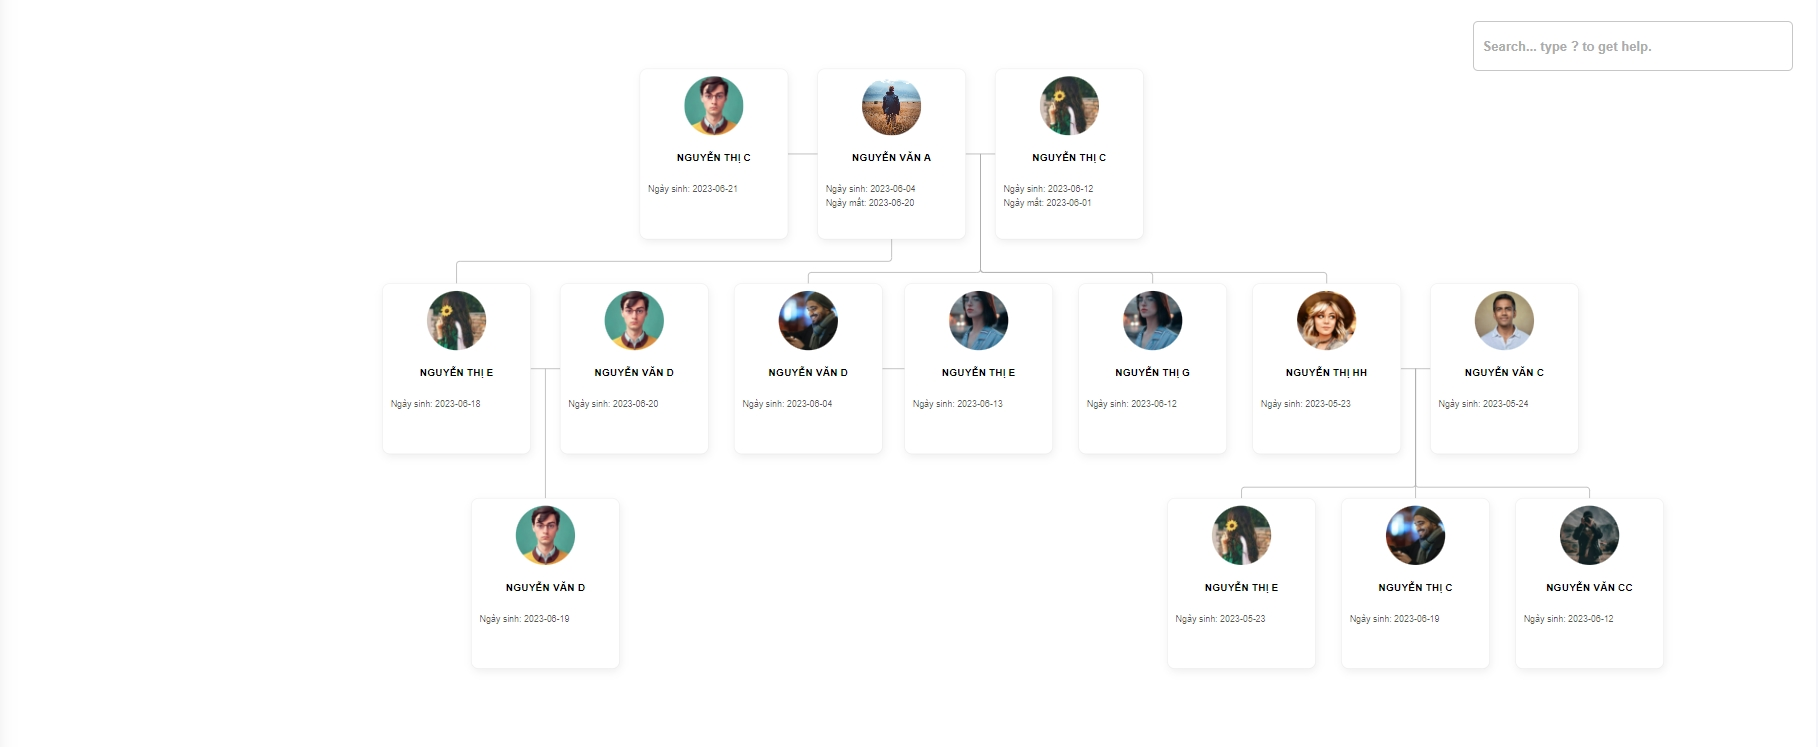
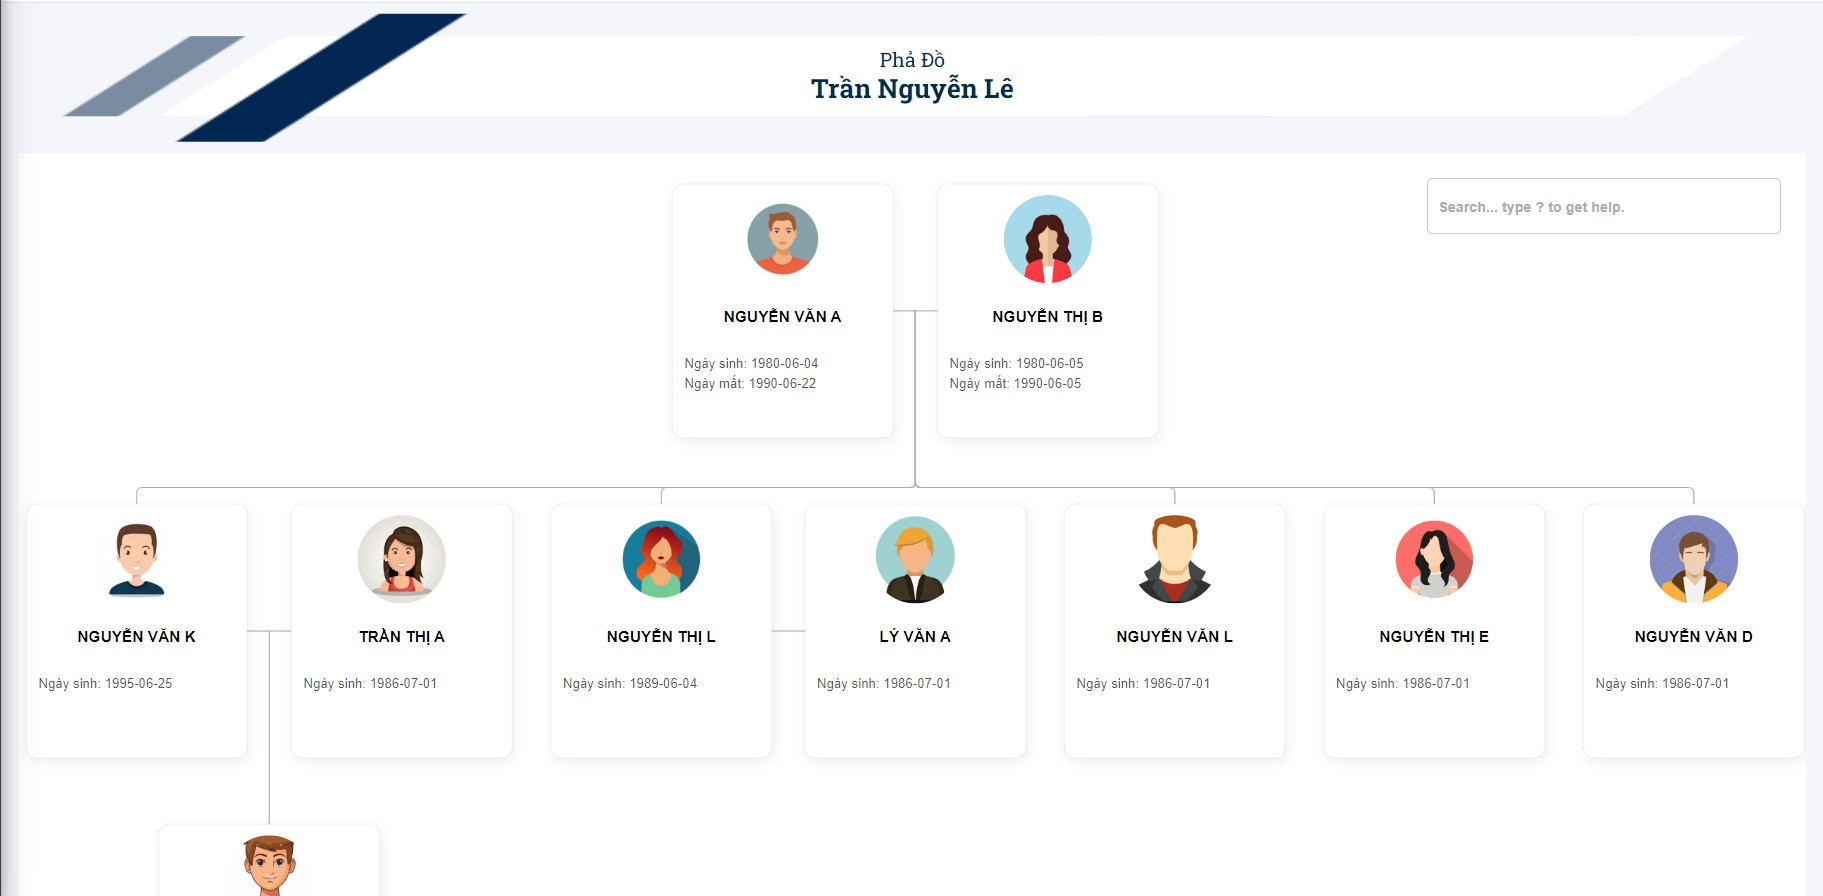
Default template

diff --git a/resources/views/global/genealogy.blade.php b/resources/views/global/genealogy.blade.php
@@ -144,7 +144,59 @@
         @include('global.content_head', [
             'title' => 'Cây gia phả',
         ])
-        @if ($template == 2)
+        @if ($template == 1)
+            <link rel="preconnect" href="https://fonts.googleapis.com">
+            <link rel="preconnect" href="https://fonts.gstatic.com" crossorigin>
+            <link href="https://fonts.googleapis.com/css2?family=Roboto+Slab:wght@100;200;300;400;500;600;700;800;900&display=swap" rel="stylesheet">
+            <style>
+                .content-header {
+                    display: none;
+                }
+                .wrap-main-title {
+                    position: relative;
+                    height: 120px;
+                }
+                .wrap-main-title img {
+                    width: 100%;
+                    height: 100%;
+                    position: absolute;
+                    z-index: 1;
+                    top: 0;
+                    left: 0;
+                }
+                .wrap-main-title .wrap-title-text {
+                    width: 100%;
+                    height: 100%;
+                    position: absolute;
+                    z-index: 2;
+                    padding-top: 30px;
+                }
+                .wrap-main-title .wrap-title-text div{
+                    margin: 0;
+                    padding: 0;
+                    font-family: 'Roboto Slab', serif;
+                    font-size: 18px;
+                    color: #002e4a;
+                }
+                .wrap-main-title .wrap-title-text div:nth-child(2){
+                    font-size: 24px;
+                    line-height: 1;
+                    font-weight: bold;
+                }
+                .wrap-title {
+                    justify-content: space-between;
+                }
+            </style>
+            <section class="title text-center pt-2 pb-2">
+                <div class="wrap-main-title ml-5 mr-5">
+                    <div class="wrap-title-text">
+                        <div>Phả Đồ</div>
+                        <div>{{$familyTitle}}</div>
+                    </div>
+                    <img src="img/fixed/title_bg_default.png" alt="title_bg_default">
+                </div>
+            </section>
+        @elseif ($template == 2)
             <link rel="preconnect" href="https://fonts.googleapis.com">
             <link rel="preconnect" href="https://fonts.gstatic.com" crossorigin>
             <link href="https://fonts.googleapis.com/css2?family=Lobster&display=swap" rel="stylesheet">
@@ -190,8 +242,12 @@
                     margin: 0;
                     padding: 0;
                     font-family: 'Lobster', cursive;
-                    font-size: 20px;
+                    font-size: 18px;
                     color: #c30000;
+                }
+                .wrap-main-title .wrap-title-text div:nth-child(2){
+                    font-size: 24px;
+                    line-height: 1;
                 }
                 .wrap-title {
                     justify-content: space-between;
